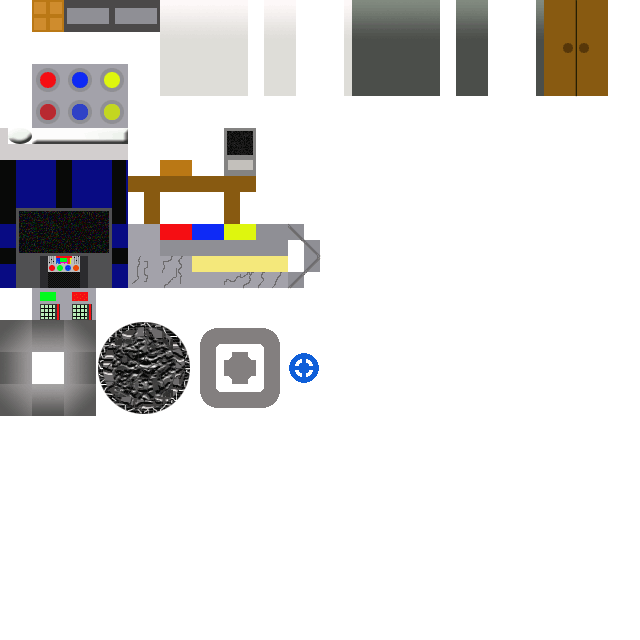
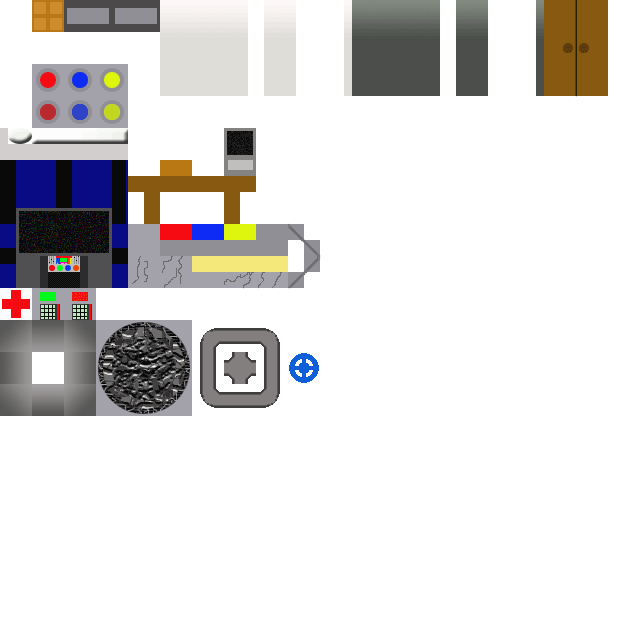
Add animations and removed used pictures and maps

Changed region(s): [[0.125, 0.5, 0.4375, 0.6562], [0.0, 0.4375, 0.0625, 0.5]]

diff --git a/src/edu/csupomona/kyra/state/GameStateLevel2.java b/src/edu/csupomona/kyra/state/GameStateLevel2.java
@@ -12,6 +12,7 @@
 
 package edu.csupomona.kyra.state;
 
+import org.newdawn.slick.Animation;
 import org.newdawn.slick.GameContainer;
 import org.newdawn.slick.Graphics;
 import org.newdawn.slick.Image;
@@ -35,6 +36,10 @@ public class GameStateLevel2 extends BasicGameState {
 	Entity map = null;
 	Entity player1 = null;
 	Entity player2 = null;
+	Entity enemy = null;
+	Animation[] animationsP1 = null;
+	Animation[] animationsP2 = null;
+	Animation[] animationsEnemy = null;
 	
 	private int stateID = 5;
 	
@@ -50,22 +55,80 @@ public class GameStateLevel2 extends BasicGameState {
 	public void init(GameContainer gc, StateBasedGame sbg) throws SlickException {
 		TiledMap tiledMap = new TiledMap("lvl/level2map.tmx");
 		Sound[] fx = {new Sound("audio/player_jump.ogg"), new Sound("audio/player_attack.ogg"), new Sound("audio/player_hit.ogg"), new Sound("audio/player_random.ogg"),new Sound("audio/player_pause.ogg")};
-		
+		//player 1 frames, 0-3
+		Image[] p1Rightmovement = {new Image("img/player1-move-right_001.png"), new Image("img/player1-move-right_004.png"),
+				new Image("img/player1-move-right_003.png"),new Image("img/player1-move-right_001.png"),new Image("img/player1-move-right_005.png"),
+				new Image("img/player1-move-right_002.png")};
+		Image[] p1Leftmovement = {new Image("img/player1-move-left_001.png"), new Image("img/player1-move-left_004.png"),
+				new Image("img/player1-move-left_003.png"),new Image("img/player1-move-left_001.png"),new Image("img/player1-move-left_005.png"),
+				new Image("img/player1-move-left_002.png")};
+		Image[] p1Jumpleftmovement = {new Image("img/player1-jump-left.png"),new Image("img/player1-move-left_001.png")};
+		Image[] p1Jumprightmovement = {new Image("img/player1-jump-right.png"),new Image("img/player1-move-right_001.png")};	
+		//basic enemy frames, 8-9
+		Image[] bERightmovement = {new Image("img/basic-enemy-move-right_001.png"),new Image("img/basic-enemy-move-right_002.png"),
+				new Image("img/basic-enemy-move-right_001.png"),new Image("img/basic-enemy-move-right_003.png")};
+		Image[] bELefttmovement = {new Image("img/basic-enemy-move-left_001.png"),new Image("img/basic-enemy-move-left_002.png"),
+				new Image("img/basic-enemy-move-left_001.png"),new Image("img/basic-enemy-move-left_003.png")};
+		//boss 2 12-15
+		Image[] boss2Rightmovement = {new Image("img/boss-2-move-right_001.png"),new Image("img/boss-2-move-right_002.png"),
+				new Image("img/boss-2-move-right_001.png"),new Image("img/boss-2-move-right_003.png")};
+		Image[] boss2Leftmovement = {new Image("img/boss-2-move-left_001.png"),new Image("img/boss-2-move-left_002.png"),
+				new Image("img/boss-2-move-left_001.png"),new Image("img/boss-2-move-left_003.png")};		
+		Image[] boss2Flyright = {new Image("img/boss-2-fly-right.png")};
+		Image[] boss2Flyleft = {new Image("img/boss-2-fly-left.png")};
+		int[] duration = {175,175,175,175,175,175}; //player 1 and 2 movement
+        int[] duration2 = {500,175}; //player 1 and 2 jump
+        int[] duration3 = {500,500,500,500}; //basic enemy movement
+        int[] duration4 = {}; //boss 1
+        animationsP1 = new Animation[4];
+        //player 1 frames
+        animationsP1[0] = new Animation(p1Rightmovement,duration,false);
+        animationsP1[1] = new Animation(p1Leftmovement,duration,false);
+        animationsP1[2] = new Animation(p1Jumpleftmovement,duration2,false);
+        animationsP1[3] = new Animation(p1Jumprightmovement,duration2,false);
+        
 		Vector2f p1Position = new Vector2f(33, 1248);
 		player1 = new Entity("player");
 		player1.setPosition(p1Position);
 		player1.addComponent(new PlayerInput("p1input"));
 		player1.addComponent(new PlayerPhysics("p1physics", 31, 31, tiledMap));
-		player1.addComponent(new ImageRenderComponent("p1Sprite", new Image("img/glow0.png")));
+		player1.addComponent(new ImageRenderComponent("p1Sprite", animationsP1));
 		player1.addComponent(new SoundEffects("p1Fx", fx));
 		
+        animationsEnemy = new Animation[2];
+        animationsEnemy[0] = new Animation(bERightmovement,duration3,false);
+        animationsEnemy[1] = new Animation(bELefttmovement,duration3,false);
+        
+        Vector2f ePosition = new Vector2f(165, 1248);
+        enemy = new Entity("enemy");
+        enemy.setPosition(ePosition);
+        enemy.addComponent(new PlayerInput("einput"));
+		enemy.addComponent(new PlayerPhysics("ephysics", 31, 31, tiledMap));
+        enemy.addComponent(new PlayerPhysics("ephysics", 31, 31, tiledMap));
+        enemy.addComponent(new ImageRenderComponent("eSprite", animationsEnemy));
+        
 		if(Kyra.vs) {
+			//player 2 frames, 4-7
+			Image[] p2Rightmovement = {new Image("img/player2-move-right_001.png"), new Image("img/player2-move-right_004.png"),
+					new Image("img/player2-move-right_003.png"),new Image("img/player2-move-right_001.png"),new Image("img/player2-move-right_005.png"),
+					new Image("img/player2-move-right_002.png")};
+			Image[] p2Leftmovement = {new Image("img/player2-move-left_001.png"), new Image("img/player2-move-left_004.png"),
+					new Image("img/player2-move-left_003.png"),new Image("img/player2-move-left_001.png"),new Image("img/player2-move-left_005.png"),
+					new Image("img/player2-move-left_002.png")};
+			Image[] p2Jumpleftmovement = {new Image("img/player2-jump-left.png"),new Image("img/player2-move-left_001.png")};
+			Image[] p2Jumprightmovement = {new Image("img/player2-jump-right.png"),new Image("img/player2-move-right_001.png")};	
+			//player 2 frames
+			animationsP2 = new Animation[4];
+	        animationsP2[0] = new Animation(p2Rightmovement,duration,false);
+	        animationsP2[1] = new Animation(p2Leftmovement,duration,false);
+	        animationsP2[2] = new Animation(p2Jumpleftmovement,duration2,false);
+	        animationsP2[3] = new Animation(p2Jumprightmovement,duration2,false);
 			Vector2f p2Position = new Vector2f(83, 1248);
 			player2 = new Entity("player2");
 			player2.setPosition(p2Position);
 			player2.addComponent(new PlayerInput("p2input"));
 			player2.addComponent(new PlayerPhysics("p2physics", 31, 31, tiledMap));
-			player2.addComponent(new ImageRenderComponent("p2Sprite", new Image("img/glow4.png")));
+			player2.addComponent(new ImageRenderComponent("p2Sprite", animationsP2));
 			player2.addComponent(new SoundEffects("p2Fx", fx));
 			player2.getInputComponent().changebutton("left", Input.KEY_K);
 			player2.getInputComponent().changebutton("right", Input.KEY_L);
@@ -82,6 +145,7 @@ public class GameStateLevel2 extends BasicGameState {
     	
     	map.render(gc, sbg, gr);
     	player1.render(gc, sbg, gr);
+    	enemy.render(gc, sbg, gr);
     	if(Kyra.vs)
     		player2.render(gc, sbg, gr);
     }
@@ -90,6 +154,7 @@ public class GameStateLevel2 extends BasicGameState {
     	Input input = gc.getInput();
     	
     	player1.update(gc, sbg, delta);
+    	enemy.update(gc, sbg, delta);
     	if(Kyra.vs)
     		player2.update(gc, sbg, delta);
     	map.update(gc, sbg, delta);

diff --git a/src/edu/csupomona/kyra/state/GameStateLevel1.java b/src/edu/csupomona/kyra/state/GameStateLevel1.java
@@ -12,6 +12,7 @@
 
 package edu.csupomona.kyra.state;
 
+import org.newdawn.slick.Animation;
 import org.newdawn.slick.GameContainer;
 import org.newdawn.slick.Graphics;
 import org.newdawn.slick.Image;
@@ -36,6 +37,10 @@ public class GameStateLevel1 extends BasicGameState {
 	Entity map = null;
 	Entity player1 = null;
 	Entity player2 = null;
+	Entity enemy = null;
+	Animation[] animationsP1 = null;
+	Animation[] animationsP2 = null;
+	Animation[] animationsEnemy = null;	
 	
 	private int stateID = 4;
 	
@@ -51,23 +56,68 @@ public class GameStateLevel1 extends BasicGameState {
 	public void init(GameContainer gc, StateBasedGame sbg) throws SlickException {
 		TiledMap tiledMap = new TiledMap("lvl/level1map.tmx");
 		Sound[] fx = {new Sound("audio/player_jump.ogg"), new Sound("audio/player_attack.ogg"), new Sound("audio/player_hit.ogg"), null,new Sound("audio/player_pause.ogg")};
+		//player 1 frames, 0-3
+		Image[] p1Rightmovement = {new Image("img/player1-move-right_001.png"), new Image("img/player1-move-right_004.png"),
+				new Image("img/player1-move-right_003.png"),new Image("img/player1-move-right_001.png"),new Image("img/player1-move-right_005.png"),
+				new Image("img/player1-move-right_002.png")};
+		Image[] p1Leftmovement = {new Image("img/player1-move-left_001.png"), new Image("img/player1-move-left_004.png"),
+				new Image("img/player1-move-left_003.png"),new Image("img/player1-move-left_001.png"),new Image("img/player1-move-left_005.png"),
+				new Image("img/player1-move-left_002.png")};
+		Image[] p1Jumpleftmovement = {new Image("img/player1-jump-left.png"),new Image("img/player1-move-left_001.png")};
+		Image[] p1Jumprightmovement = {new Image("img/player1-jump-right.png"),new Image("img/player1-move-right_001.png")};	
+		//basic enemy frames, 8-9
+		Image[] bERightmovement = {new Image("img/basic-enemy-move-right_001.png"),new Image("img/basic-enemy-move-right_002.png"),
+				new Image("img/basic-enemy-move-right_001.png"),new Image("img/basic-enemy-move-right_003.png")};
+		Image[] bELefttmovement = {new Image("img/basic-enemy-move-left_001.png"),new Image("img/basic-enemy-move-left_002.png"),
+				new Image("img/basic-enemy-move-left_001.png"),new Image("img/basic-enemy-move-left_003.png")};
+		//boss 1, 10-11
+		Image[] boss1Leftmovement = {new Image("img/boss-1-left.png")};
+		Image[] boss1Rightmovement = {new Image("img/boss-1-right.png")};
+		int[] duration = {175,175,175,175,175,175}; //player 1 and 2 movement
+        int[] duration2 = {500,175}; //player 1 and 2 jump
+        int[] duration3 = {500,500,500,500}; //basic enemy movement
+        int[] duration4 = {}; //boss 1
+        animationsP1 = new Animation[4];
+        //player 1 frames
+        animationsP1[0] = new Animation(p1Rightmovement,duration,false);
+        animationsP1[1] = new Animation(p1Leftmovement,duration,false);
+        animationsP1[2] = new Animation(p1Jumpleftmovement,duration2,false);
+        animationsP1[3] = new Animation(p1Jumprightmovement,duration2,false);
 		
 		Vector2f p1Position = new Vector2f(33, 1535);
 		player1 = new Entity("player");
 		player1.setPosition(p1Position);
 		player1.addComponent(new PlayerInput("p1input"));
 		player1.addComponent(new PlayerPhysics("p1physics", 31, 31, tiledMap));
-		player1.addComponent(new ImageRenderComponent("p1Sprite", new Image("img/glow0.png")));
+		player1.addComponent(new ImageRenderComponent("p1Sprite", animationsP1));
 		player1.addComponent(new SoundEffects("p1Fx", fx));
 		
-		
+        animationsEnemy = new Animation[2];
+        animationsEnemy[0] = new Animation(bERightmovement,duration3,false);
+        animationsEnemy[1] = new Animation(bELefttmovement,duration3,false);
+        
 		if(Kyra.vs) {
+			//player 2 frames, 4-7
+			Image[] p2Rightmovement = {new Image("img/player2-move-right_001.png"), new Image("img/player2-move-right_004.png"),
+					new Image("img/player2-move-right_003.png"),new Image("img/player2-move-right_001.png"),new Image("img/player2-move-right_005.png"),
+					new Image("img/player2-move-right_002.png")};
+			Image[] p2Leftmovement = {new Image("img/player2-move-left_001.png"), new Image("img/player2-move-left_004.png"),
+					new Image("img/player2-move-left_003.png"),new Image("img/player2-move-left_001.png"),new Image("img/player2-move-left_005.png"),
+					new Image("img/player2-move-left_002.png")};
+			Image[] p2Jumpleftmovement = {new Image("img/player2-jump-left.png"),new Image("img/player2-move-left_001.png")};
+			Image[] p2Jumprightmovement = {new Image("img/player2-jump-right.png"),new Image("img/player2-move-right_001.png")};	
+			//player 2 frames
+			animationsP2 = new Animation[4];
+	        animationsP2[0] = new Animation(p2Rightmovement,duration,false);
+	        animationsP2[1] = new Animation(p2Leftmovement,duration,false);
+	        animationsP2[2] = new Animation(p2Jumpleftmovement,duration2,false);
+	        animationsP2[3] = new Animation(p2Jumprightmovement,duration2,false);
 			Vector2f p2Position = new Vector2f(83, 1535);
 			player2 = new Entity("player2");
 			player2.setPosition(p2Position);
 			player2.addComponent(new PlayerInput("p2input"));
 			player2.addComponent(new PlayerPhysics("p2physics", 31, 31, tiledMap));
-			player2.addComponent(new ImageRenderComponent("p2Sprite", new Image("img/glow4.png")));
+			player2.addComponent(new ImageRenderComponent("p2Sprite", animationsP2));
 			player2.addComponent(new SoundEffects("p2Fx", fx));
 			player2.getInputComponent().changebutton("left", Input.KEY_K);
 			player2.getInputComponent().changebutton("right", Input.KEY_L);
